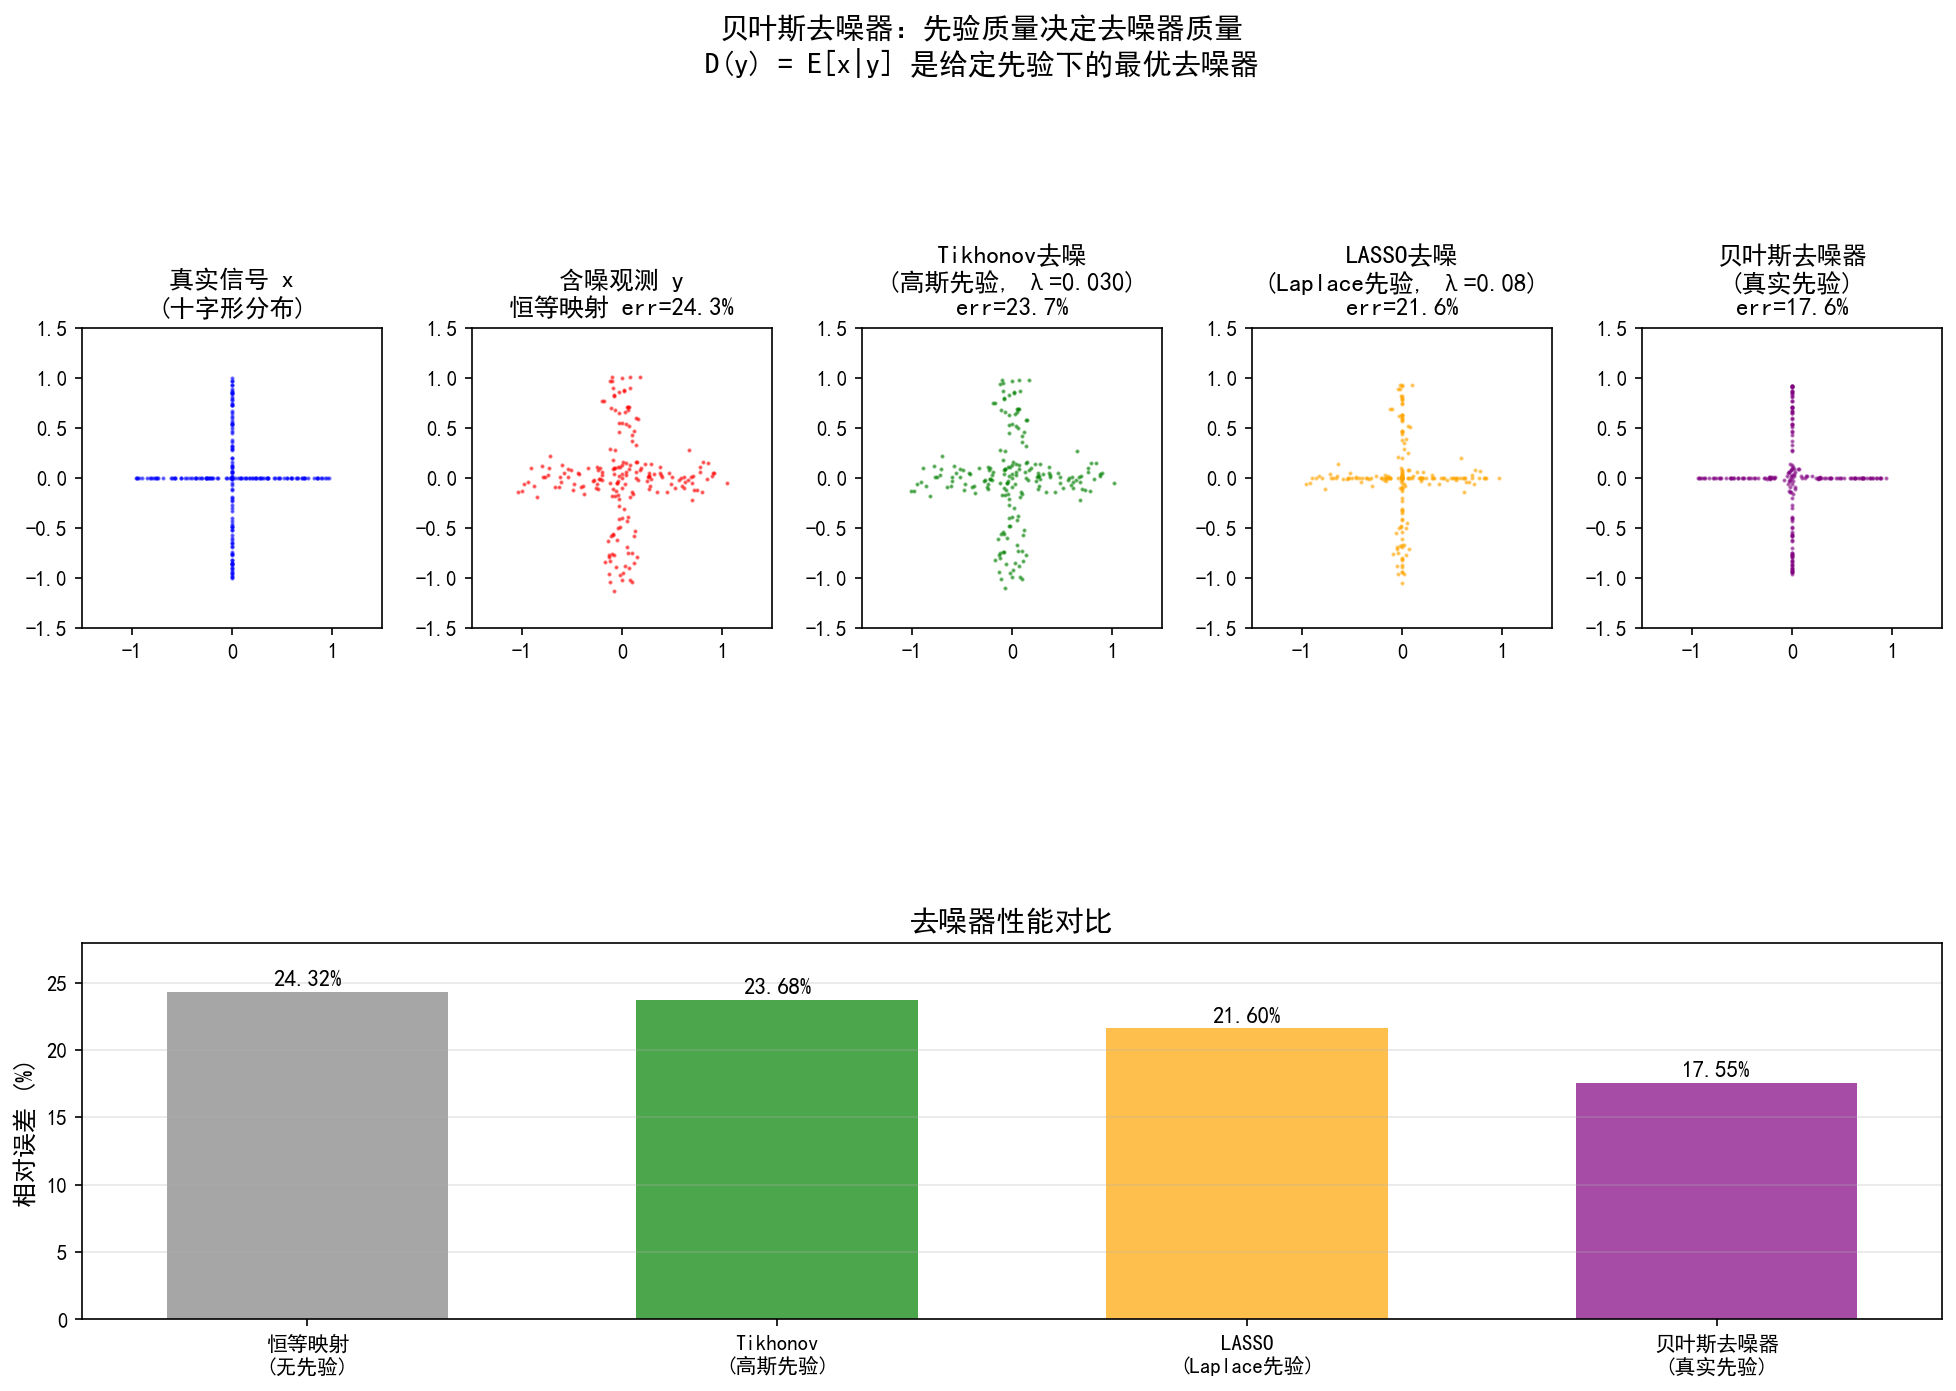
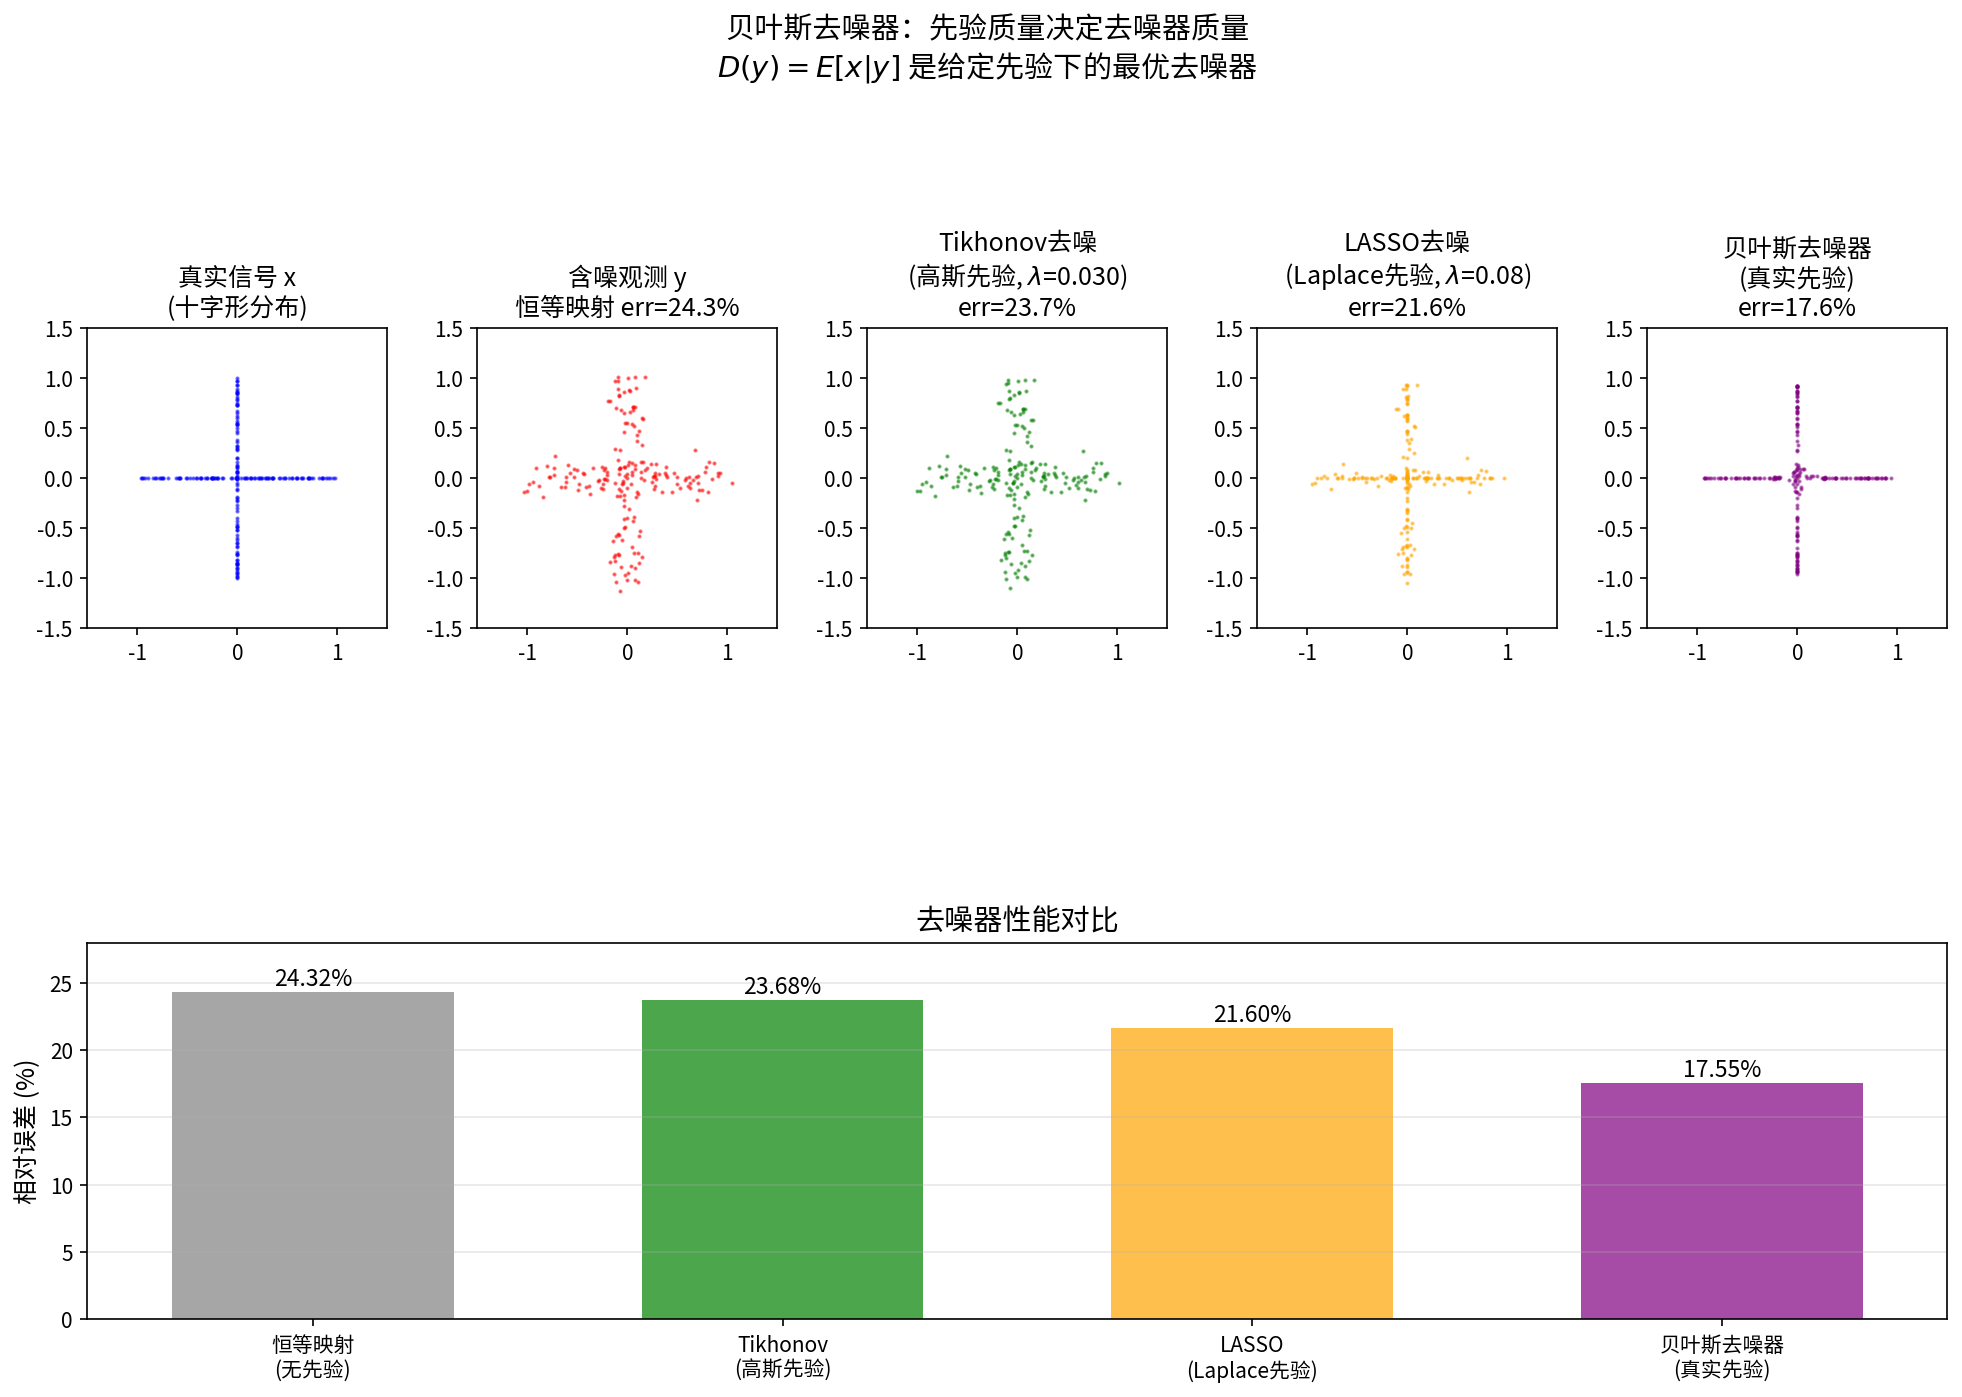
new

diff --git a/第2章 先验：贝叶斯推断的灵魂/配套实验/实验2.3-1/2.3-1.py b/第2章 先验：贝叶斯推断的灵魂/配套实验/实验2.3-1/2.3-1.py
@@ -30,16 +30,13 @@ import warnings
 
 SILENT_MODE = True
 
-if SILENT_MODE:
-    import matplotlib
-    matplotlib.use('Agg')
-    warnings.filterwarnings('ignore')
-    if sys.platform == 'win32':
-        sys.stdout.reconfigure(encoding='utf-8') if hasattr(sys.stdout, 'reconfigure') else None
-else:
-    import matplotlib
-
+import matplotlib
+matplotlib.use('Agg')
 import matplotlib.pyplot as plt
+import warnings
+warnings.filterwarnings('ignore')
+if sys.platform == 'win32':
+    sys.stdout.reconfigure(encoding='utf-8') if hasattr(sys.stdout, 'reconfigure') else None
 
 _gdrive = '/content/drive/MyDrive'
 if os.path.isdir(_gdrive):
@@ -169,14 +166,14 @@ ax2.scatter(x_tikh[idx, 0], x_tikh[idx, 1], s=1, alpha=0.5, c='green')
 ax2.set_xlim(-1.5, 1.5)
 ax2.set_ylim(-1.5, 1.5)
 ax2.set_aspect('equal')
-ax2.set_title(f'Tikhonov去噪\n(高斯先验, λ={lambda_tikh_optimal:.3f})\nerr={err_tikh*100:.1f}%')
+ax2.set_title(f'Tikhonov去噪\n(高斯先验, $\\lambda$={lambda_tikh_optimal:.3f})\nerr={err_tikh*100:.1f}%')
 
 ax3 = fig.add_subplot(gs[0, 3])
 ax3.scatter(x_lasso[idx, 0], x_lasso[idx, 1], s=1, alpha=0.5, c='orange')
 ax3.set_xlim(-1.5, 1.5)
 ax3.set_ylim(-1.5, 1.5)
 ax3.set_aspect('equal')
-ax3.set_title(f'LASSO去噪\n(Laplace先验, λ={lambda_lasso})\nerr={err_lasso*100:.1f}%')
+ax3.set_title(f'LASSO去噪\n(Laplace先验, $\\lambda$={lambda_lasso})\nerr={err_lasso*100:.1f}%')
 
 ax4 = fig.add_subplot(gs[0, 4])
 ax4.scatter(x_bayes[idx, 0], x_bayes[idx, 1], s=1, alpha=0.5, c='purple')
@@ -199,7 +196,7 @@ for bar, e in zip(bars, errors):
 ax_bar.set_ylim(0, max(errors)*100 * 1.15)
 ax_bar.grid(axis='y', alpha=0.3)
 
-fig.suptitle('贝叶斯去噪器：先验质量决定去噪器质量\nD(y) = E[x|y] 是给定先验下的最优去噪器', fontsize=14, y=0.98)
+fig.suptitle('贝叶斯去噪器：先验质量决定去噪器质量\n$D(y) = E[x|y]$ 是给定先验下的最优去噪器', fontsize=14, y=0.98)
 plt.savefig(os.path.join(SAVE_DIR, '步骤1_去噪器对比.png'), dpi=150, bbox_inches='tight')
 if not SILENT_MODE:
     plt.show()

diff --git a/第2章 先验：贝叶斯推断的灵魂/配套实验/实验2.b-1/2.b-1.py b/第2章 先验：贝叶斯推断的灵魂/配套实验/实验2.b-1/2.b-1.py
@@ -16,16 +16,13 @@ import warnings
 # ====== 静默模式配置 ======
 SILENT_MODE = True  # True: 不弹窗、不显示警告；False: 正常交互模式
 
-if SILENT_MODE:
-    import matplotlib
-    matplotlib.use('Agg')
-    warnings.filterwarnings('ignore')
-    if sys.platform == 'win32':
-        sys.stdout.reconfigure(encoding='utf-8') if hasattr(sys.stdout, 'reconfigure') else None
-else:
-    import matplotlib
-
+import matplotlib
+matplotlib.use('Agg')
 import matplotlib.pyplot as plt
+import warnings
+warnings.filterwarnings('ignore')
+if sys.platform == 'win32':
+    sys.stdout.reconfigure(encoding='utf-8') if hasattr(sys.stdout, 'reconfigure') else None
 from skimage import data
 from skimage.util import random_noise
 from skimage.restoration import denoise_tv_chambolle

diff --git a/第2章 先验：贝叶斯推断的灵魂/配套实验/实验2.a-1/2.a-1.py b/第2章 先验：贝叶斯推断的灵魂/配套实验/实验2.a-1/2.a-1.py
@@ -16,16 +16,13 @@ import warnings
 # ====== 静默模式配置 ======
 SILENT_MODE = True  # True: 不弹窗、不显示警告；False: 正常交互模式
 
-if SILENT_MODE:
-    import matplotlib
-    matplotlib.use('Agg')
-    warnings.filterwarnings('ignore')
-    if sys.platform == 'win32':
-        sys.stdout.reconfigure(encoding='utf-8') if hasattr(sys.stdout, 'reconfigure') else None
-else:
-    import matplotlib
-
+import matplotlib
+matplotlib.use('Agg')
 import matplotlib.pyplot as plt
+import warnings
+warnings.filterwarnings('ignore')
+if sys.platform == 'win32':
+    sys.stdout.reconfigure(encoding='utf-8') if hasattr(sys.stdout, 'reconfigure') else None
 
 _gdrive = '/content/drive/MyDrive'
 if os.path.isdir(_gdrive):

diff --git a/第2章 先验：贝叶斯推断的灵魂/配套实验/实验2.4-1/2.4-1.py b/第2章 先验：贝叶斯推断的灵魂/配套实验/实验2.4-1/2.4-1.py
@@ -16,16 +16,13 @@ import warnings
 # ====== 静默模式配置 ======
 SILENT_MODE = True  # True: 不弹窗、不显示警告；False: 正常交互模式
 
-if SILENT_MODE:
-    import matplotlib
-    matplotlib.use('Agg')
-    warnings.filterwarnings('ignore')
-    if sys.platform == 'win32':
-        sys.stdout.reconfigure(encoding='utf-8') if hasattr(sys.stdout, 'reconfigure') else None
-else:
-    import matplotlib
-
+import matplotlib
+matplotlib.use('Agg')
 import matplotlib.pyplot as plt
+import warnings
+warnings.filterwarnings('ignore')
+if sys.platform == 'win32':
+    sys.stdout.reconfigure(encoding='utf-8') if hasattr(sys.stdout, 'reconfigure') else None
 import torch
 import torch.nn as nn
 

diff --git a/第2章 先验：贝叶斯推断的灵魂/配套实验/实验2.4-2/2.4-2.py b/第2章 先验：贝叶斯推断的灵魂/配套实验/实验2.4-2/2.4-2.py
@@ -16,16 +16,13 @@ import warnings
 # ====== 静默模式配置 ======
 SILENT_MODE = True  # True: 不弹窗、不显示警告；False: 正常交互模式
 
-if SILENT_MODE:
-    import matplotlib
-    matplotlib.use('Agg')
-    warnings.filterwarnings('ignore')
-    if sys.platform == 'win32':
-        sys.stdout.reconfigure(encoding='utf-8') if hasattr(sys.stdout, 'reconfigure') else None
-else:
-    import matplotlib
-
+import matplotlib
+matplotlib.use('Agg')
 import matplotlib.pyplot as plt
+import warnings
+warnings.filterwarnings('ignore')
+if sys.platform == 'win32':
+    sys.stdout.reconfigure(encoding='utf-8') if hasattr(sys.stdout, 'reconfigure') else None
 import torch
 import torch.nn as nn
 

diff --git a/第2章 先验：贝叶斯推断的灵魂/2.3 先验的质量：MMSE vs MAP估计器.md b/第2章 先验：贝叶斯推断的灵魂/2.3 先验的质量：MMSE vs MAP估计器.md
@@ -157,22 +157,116 @@ $$\nabla_y \ln p_\sigma(y) = \frac{1}{\sigma^2}\big(D_\sigma(y) - y\big)$$
 
 其中 $p_\sigma(y) = \int p_{\text{data}}(x) \, \mathcal{N}(y; x, \sigma^2 I) \, \mathrm{d}x$ 是数据的噪声扰动分布。这个等式说明：**去噪器的残差 $D_\sigma(y) - y$ 正比于先验的得分函数（对数概率密度的梯度）**——去噪器"知道"先验长什么样。
 
-### 一个数值实验：不同先验下去噪器的表现
+> **核心结论**：**先验决定去噪器，去噪器揭示先验。** 这一双向映射是后续第5章 Tweedie 等式和 Plug-and-Play（PnP）框架的理论根基。PnP 的关键洞察正是：用一个训练好的神经网络去噪器替代显式先验，间接地利用数据驱动的隐式先验来解决一般逆问题。
 
-在配套实验 2.3-1 中，我们直观展示了不同先验下去噪器的差异。设 $x$ 均匀分布在十字形上（$\{0\} \times [-1,1] \cup [-1,1] \times \{0\}$），$y = x + \varepsilon$，$\varepsilon \sim \mathcal{N}(0, 0.1^2 I)$，比较四种去噪器的相对误差：
+---
+
+## 实验 2.3-1：贝叶斯去噪器——不同先验下去噪器的表现
+
+实验 `2.3-1.py` 演示**在不同先验假设下，去噪器的 MMSE 性能对比**，通过十字形非高斯分布的数值实验，直观验证"先验质量决定去噪器质量"的核心命题。
+
+### 实验场景
+
+实验构造一个二维非高斯先验：信号 $x$ 均匀分布在十字形上（$\{0\} \times [-1,1] \cup [-1,1] \times \{0\}$），观测模型为纯去噪问题：
+
+$$y = x + \varepsilon, \quad \varepsilon \sim \mathcal{N}(0, \sigma^2 I), \quad \sigma = 0.1$$
+
+在同一噪声水平下，比较四种去噪器的相对误差：
+
+**恒等映射（无先验）**：$D(y) = y$，不使用任何先验信息。
+
+**Tikhonov 去噪器（高斯先验）**：假设 $x \sim \mathcal{N}(0, \sigma_x^2 I)$，去噪器为线性缩放：
+
+$$D(y) = \frac{y}{1 + \lambda}, \quad \lambda = \frac{\sigma^2}{\sigma_x^2}$$
+
+其中 $\sigma_x^2$ 从真实信号的方差估计（Oracle 估计，仅用于教学展示）。
+
+**LASSO 去噪器（Laplace 先验）**：假设 $x \sim \text{Laplace}(0, bI)$，去噪器为软阈值操作：
+
+$$D(y) = \text{sign}(y) \cdot \max(|y| - \lambda, 0), \quad \lambda = 0.08$$
+
+**贝叶斯去噪器（真实先验）**：使用真实十字形先验的 MMSE 估计器，通过蒙特卡洛积分近似：
+
+$$D(y) = \mathbb{E}[x|y] \approx \sum_{k=1}^{N_{\text{mc}}} w_k x^{(k)}, \quad w_k \propto \exp\!\Big(-\frac{\|y - x^{(k)}\|_2^2}{2\sigma^2}\Big)$$
+
+其中 $x^{(k)}$ 从十字形先验中采样，$N_{\text{mc}} = 1000$。
+
+### 实验目的
+
+1. **验证 MMSE 最优性**：使用真实先验的贝叶斯去噪器（后验均值）在所有去噪器中相对误差最低
+2. **展示先验质量的影响**：先验假设越贴近真实分布，去噪器性能越好
+3. **揭示非高斯先验的挑战**：十字形分布是非高斯的，$\mathbb{E}[x|y]$ 无闭式解，必须用蒙特卡洛方法近似
+4. **引入 ESS 诊断**：展示蒙特卡洛近似的有效样本量（ESS），理解低噪声场景下蒙特卡洛近似的困难
+
+### 实验输入
+
+| 参数 | 设置 |
+|------|------|
+| 先验分布 | 十字形：$\{0\} \times [-1,1] \cup [-1,1] \times \{0\}$ |
+| 信号方差 | $\sigma_x^2 = 0.3348$（从真实分布计算） |
+| 噪声模型 | 加性高斯白噪声，$\sigma = 0.1$ |
+| Tikhonov 参数 | $\lambda = \sigma^2/\sigma_x^2 = 0.0299$（Oracle 估计） |
+| LASSO 参数 | $\lambda = 0.08$（手动调参经验值） |
+| 蒙特卡洛采样 | $N_{\text{mc}} = 1000$，评估样本 $N = 1000$ |
+| ESS 诊断阈值 | $\max(3, N_{\text{mc}} \times 0.1\%) = 3.0$ |
+
+> **Oracle 估计说明**：Oracle（预言）是统计学中对"使用了真实但实际不可知信息"的估计方法的称呼。本实验的 Tikhonov 参数 $\lambda = \sigma^2 / \sigma_x^2$ 应该使用真实信号 $x$ 的方差 $\sigma_x^2$ 来计算，但实际逆问题中 $x$ 是未知的（我们正是要重建它），因此这个 $\lambda$ 在实际中**不可获得**。这里的 Oracle 估计仅用于展示"如果我们恰好知道真实 $x$ 的统计特性，Tikhonov 能做到多好"——这是一个理论上限，实际应用中我们仍需从观测 $y$ 估计方差或通过交叉验证调参。
+
+### 预期结果
+
+- 贝叶斯去噪器（真实先验）相对误差最低，验证 MMSE 最优性
+- LASSO 去噪器优于 Tikhonov——十字形分布具有稀疏性（一个分量恒为零），Laplace 先验的稀疏假设更贴近真实
+- Tikhonov 去噪器优于恒等映射——即使高斯先验不匹配，仍有一定改善
+- 蒙特卡洛 ESS 诊断：低噪声场景下权重集中，有效样本量降低，但不影响教学结论
+
+### 实验结果
+
+运行 `2.3-1.py` 后，生成一张图。实验结果如下：
+
+---
+
+#### 步骤1：去噪器对比
+
+![实验2.3-1 步骤1：去噪器对比](./配套实验/实验2.3-1/步骤1_去噪器对比.png)
+
+**质量指标对比**：
 
 | 去噪器 | 对应先验 | 相对误差 |
-|---|---|---|
-| $f(y) = y$（恒等映射） | 无先验 | 24.78% |
-| Tikhonov 去噪器 | 高斯先验 | 24.10% |
-| LASSO 去噪器（软阈值） | Laplace 先验 | 23.47% |
-| **贝叶斯去噪器** $D(y) = \mathbb{E}[x \mid y]$ | **真实先验** | **17.47%** |
+|--------|---------|---------|
+| 恒等映射（无先验） | 无 | 24.32% |
+| Tikhonov（高斯先验） | $x \sim \mathcal{N}(0, \sigma_x^2 I)$ | 23.68% |
+| LASSO（Laplace 先验） | $x \sim \text{Laplace}(0, bI)$ | 21.60% |
+| **贝叶斯去噪器（真实先验）** | **十字形分布** | **17.55%** ← MMSE 最优 |
 
-贝叶斯去噪器（使用真实先验的 MMSE 估计器）取得了最低的相对误差——这并非巧合，而是 MMSE 最优性的直接体现。更值得注意的是：高斯先验和 Laplace 先验的去噪器虽然也有改善，但与贝叶斯最优解之间存在明显差距——这恰恰是因为它们编码的假设与真实分布不匹配。
+结果分析：
+- **贝叶斯去噪器**相对误差最低（17.55%），显著优于其他方法——这正是 MMSE 最优性的直接体现：使用真实先验的后验均值是平方损失下的贝叶斯最优估计器
+- **LASSO 去噪器**（21.60%）优于 Tikhonov（23.68%）——十字形分布的一个分量恒为零，具有稀疏性。Laplace 先验的"值稀疏"假设比高斯先验的"值小"假设更贴近真实分布
+- **Tikhonov 去噪器**（23.68%）仅比恒等映射（24.32%）略有改善——高斯先验假设与十字形分布严重不匹配，正则化效果有限
+- **散点图直观展示**：
+  - 恒等映射：散点呈圆形云团，完全丢失十字形结构
+  - Tikhonov：散点向中心收缩，但仍是圆形分布
+  - LASSO：散点沿坐标轴聚集，初步恢复十字形结构（稀疏性）
+  - 贝叶斯去噪器：散点最贴近真实十字形，结构恢复最完整
+- **右下角柱状图**：四种方法的相对误差一目了然，贝叶斯去噪器误差最低
 
-> 💡 **注**：上述数值为配套实验 2.3-1 的实际运行结果（样本量 $N=1000$）。由于蒙特卡洛近似的随机性，每次运行的具体数值可能略有波动，但四种去噪器的误差排序保持不变：恒等映射 > Tikhonov > LASSO > 贝叶斯去噪器。
+**蒙特卡洛诊断：为什么检查 ESS？**
 
-> **核心结论**：**先验决定去噪器，去噪器揭示先验。** 这一双向映射是后续第5章 Tweedie 等式和 Plug-and-Play（PnP）框架的理论根基。PnP 的关键洞察正是：用一个训练好的神经网络去噪器替代显式先验，间接地利用数据驱动的隐式先验来解决一般逆问题。
+贝叶斯去噪器 $\mathbb{E}[x|y]$ 涉及积分，非高斯先验下无闭式解，只能用蒙特卡洛近似。**ESS（有效样本量）** 衡量这个近似有多可靠：ESS 越接近实际采样数 $N_{\text{mc}}$，近似越稳定。本实验 ESS 均值 = 199.7、最小值 = 43.4（$N_{\text{mc}}=2000$），远高于阈值 3.0，说明蒙特卡洛估计稳定可靠，四种去噪器的误差排序远大于随机波动，结论不受影响。
+
+更深层的目的：**展示非高斯先验下 MMSE 计算需要近似方法，为第4章 MCMC 做铺垫。** ESS 是 MCMC 中判断采样是否充分的通用诊断工具。
+
+---
+
+#### 核心结论
+
+| 结论 | 说明 |
+|------|------|
+| 贝叶斯去噪器定义 | $D_\sigma(y) = E[x\mid y] = \int x \, p(x\mid y) \, dx$，是给定先验 $p(x)$ 和噪声水平 $\sigma$ 下的 MMSE 最优去噪器 |
+| 先验与去噪器的双向映射 | 先验 $p(x) \to$ 去噪器 $D_\sigma(y)$；去噪器残差 $D_\sigma(y) - y \propto \nabla_y \ln p_\sigma(y)$（Tweedie 等式，第5章） |
+| 实验结论 | 真实先验 > Laplace 先验 > 高斯先验 > 无先验——先验假设越准确，去噪器性能越好 |
+| 非高斯先验的挑战 | 十字形分布是非高斯的，$E[x\mid y]$ 无闭式解，需要用蒙特卡洛方法近似（详见第4章 MCMC） |
+
+> **核心洞察**：本实验直观验证了 2.3 节的核心命题——**先验质量决定去噪器质量**。贝叶斯去噪器（真实先验）的显著优势（17.55% vs 21.60%）证明：当先验假设与真实分布匹配时，MMSE 估计器能达到最优性能。同时，LASSO 优于 Tikhonov 的结果说明：即使先验不完全匹配，更贴近真实分布的假设（稀疏性）仍能带来更好的去噪效果。
 
 ---
 
